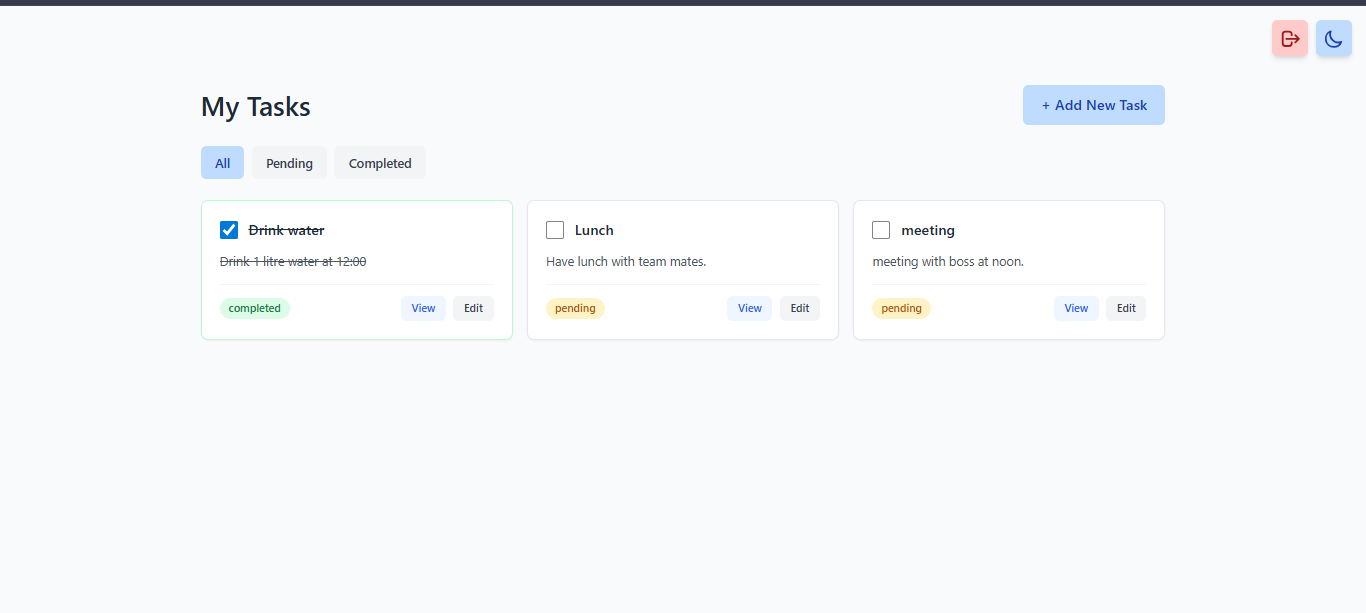
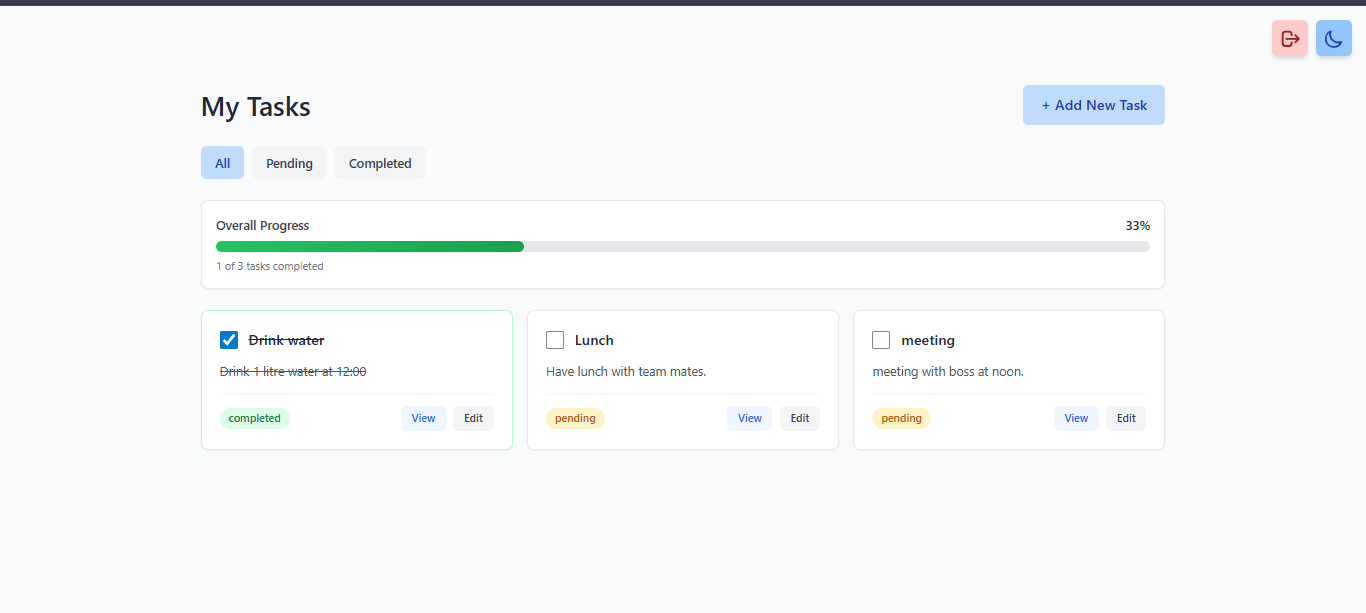
progress bar included

diff --git a/frontend/src/components/ListAllTasks.jsx b/frontend/src/components/ListAllTasks.jsx
@@ -1,9 +1,10 @@
-import React, { useEffect, useState } from "react";
-import { Link, useNavigate } from "react-router-dom";
+import React, { useEffect, useState, useMemo } from "react";
+import { Link } from "react-router-dom";
 import api from "../api";
 
 const ListAllTasks = () => {
   const [tasks, setTasks] = useState([]);
+  const [allTasks, setAllTasks] = useState([]);
   const [status, setStatus] = useState("all"); 
   const [isLoading, setIsLoading] = useState(true);
   const [error, setError] = useState(null);
@@ -14,7 +15,13 @@ const ListAllTasks = () => {
       try {
         setIsLoading(true);
         const response = await api.get(`/task/list?status=${status}`);
-        setTasks(response.data.data || []);
+        const fetchedTasks = response.data.data || [];
+        setTasks(fetchedTasks);
+        
+        // Sync allTasks when status is "all" to keep progress accurate
+        if (status === "all") {
+          setAllTasks(fetchedTasks);
+        }
       } catch (err) {
         console.error("Error fetching tasks:", err);
         setError(err?.response?.data?.message || "Failed to load tasks");
@@ -26,6 +33,27 @@ const ListAllTasks = () => {
     fetchTasks();
   }, [status]);
 
+  // Fetch all tasks separately for progress calculation
+  useEffect(() => {
+    const fetchAllTasks = async () => {
+      try {
+        const response = await api.get(`/task/list?status=all`);
+        setAllTasks(response.data.data || []);
+      } catch (err) {
+        console.error("Error fetching all tasks for progress:", err);
+      }
+    };
+
+    fetchAllTasks();
+  }, []);
+
+  //completion percentage
+  const completedPercentage = useMemo(() => {
+    if (allTasks.length === 0) return 0;
+    const completedCount = allTasks.filter(task => task.status === "completed").length;
+    return Math.round((completedCount / allTasks.length) * 100);
+  }, [allTasks]);
+
   const handleToggleStatus = async (taskId, currentStatus) => {
     const newStatus = currentStatus === "completed" ? "pending" : "completed";
     
@@ -33,9 +61,16 @@ const ListAllTasks = () => {
       setUpdatingTasks(prev => new Set(prev).add(taskId));
       await api.patch(`/task/edit/${taskId}`, { status: newStatus });
       
-      // Update local state
+      //Update local state
       setTasks(prevTasks =>
         prevTasks.map(task =>
+          task._id === taskId ? { ...task, status: newStatus } : task
+        )
+      );
+      
+      // Update allTasks for progress calculation
+      setAllTasks(prevAllTasks =>
+        prevAllTasks.map(task =>
           task._id === taskId ? { ...task, status: newStatus } : task
         )
       );
@@ -94,6 +129,29 @@ const ListAllTasks = () => {
           </button>
         ))}
       </div>
+
+      {/* Progress Bar */}
+      {allTasks.length > 0 && (
+        <div className="mb-6 bg-white dark:bg-gray-800 rounded-lg shadow-sm border border-gray-200 dark:border-gray-700 p-4">
+          <div className="flex items-center justify-between mb-2">
+            <span className="text-sm font-medium text-gray-700 dark:text-gray-300">
+              Overall Progress
+            </span>
+            <span className="text-sm font-semibold text-gray-800 dark:text-gray-100">
+              {completedPercentage}%
+            </span>
+          </div>
+          <div className="w-full bg-gray-200 dark:bg-gray-700 rounded-full h-3 overflow-hidden">
+            <div
+              className="bg-gradient-to-r from-green-500 to-green-600 dark:from-green-600 dark:to-green-700 h-full rounded-full transition-all duration-500 ease-out"
+              style={{ width: `${completedPercentage}%` }}
+            />
+          </div>
+          <div className="mt-2 text-xs text-gray-500 dark:text-gray-400">
+            {allTasks.filter(task => task.status === "completed").length} of {allTasks.length} tasks completed
+          </div>
+        </div>
+      )}
 
       {tasks.length === 0 ? (
         <div className="bg-white dark:bg-gray-800 rounded-lg shadow-sm border border-gray-200 dark:border-gray-700 p-12 text-center">

diff --git a/frontend/src/api.js b/frontend/src/api.js
@@ -1,7 +1,7 @@
 import axios from "axios";
 
 const api = axios.create({
-    baseURL:'http://localhost:5000/api',
+    baseURL:'https://task-manager-r93o.onrender.com/api',
     timeout:5000,
 });
 

diff --git a/README.md b/README.md
@@ -15,6 +15,7 @@ Each user can create, update, delete, and mark tasks as completed. Tasks are pri
 
 ### Bonus Features
 - Dark / Light mode 
+- Completed percentage progress bar
 
 
 ## Tech Stack
